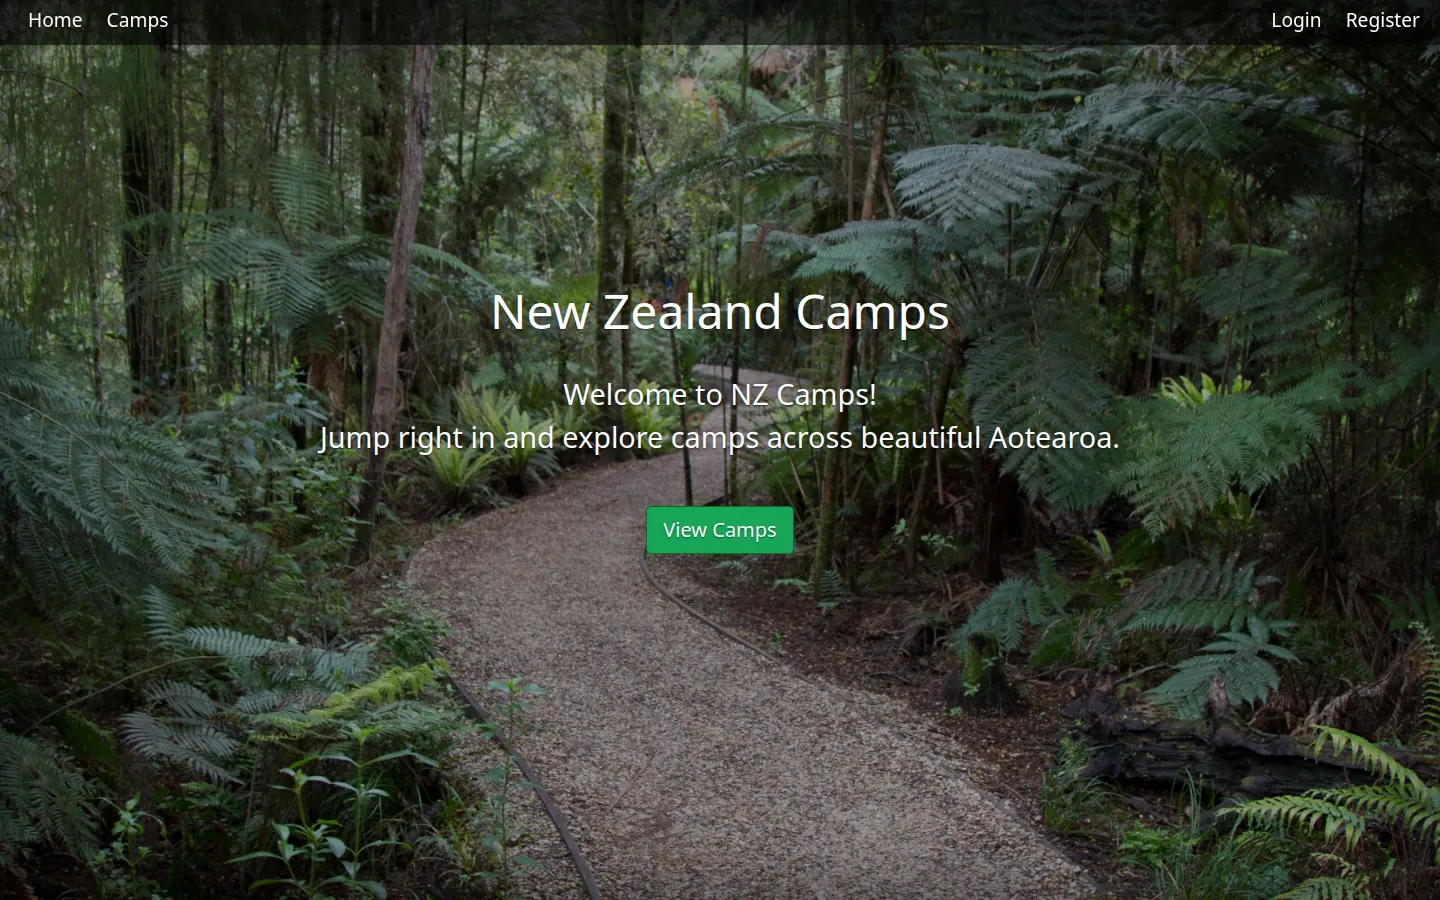
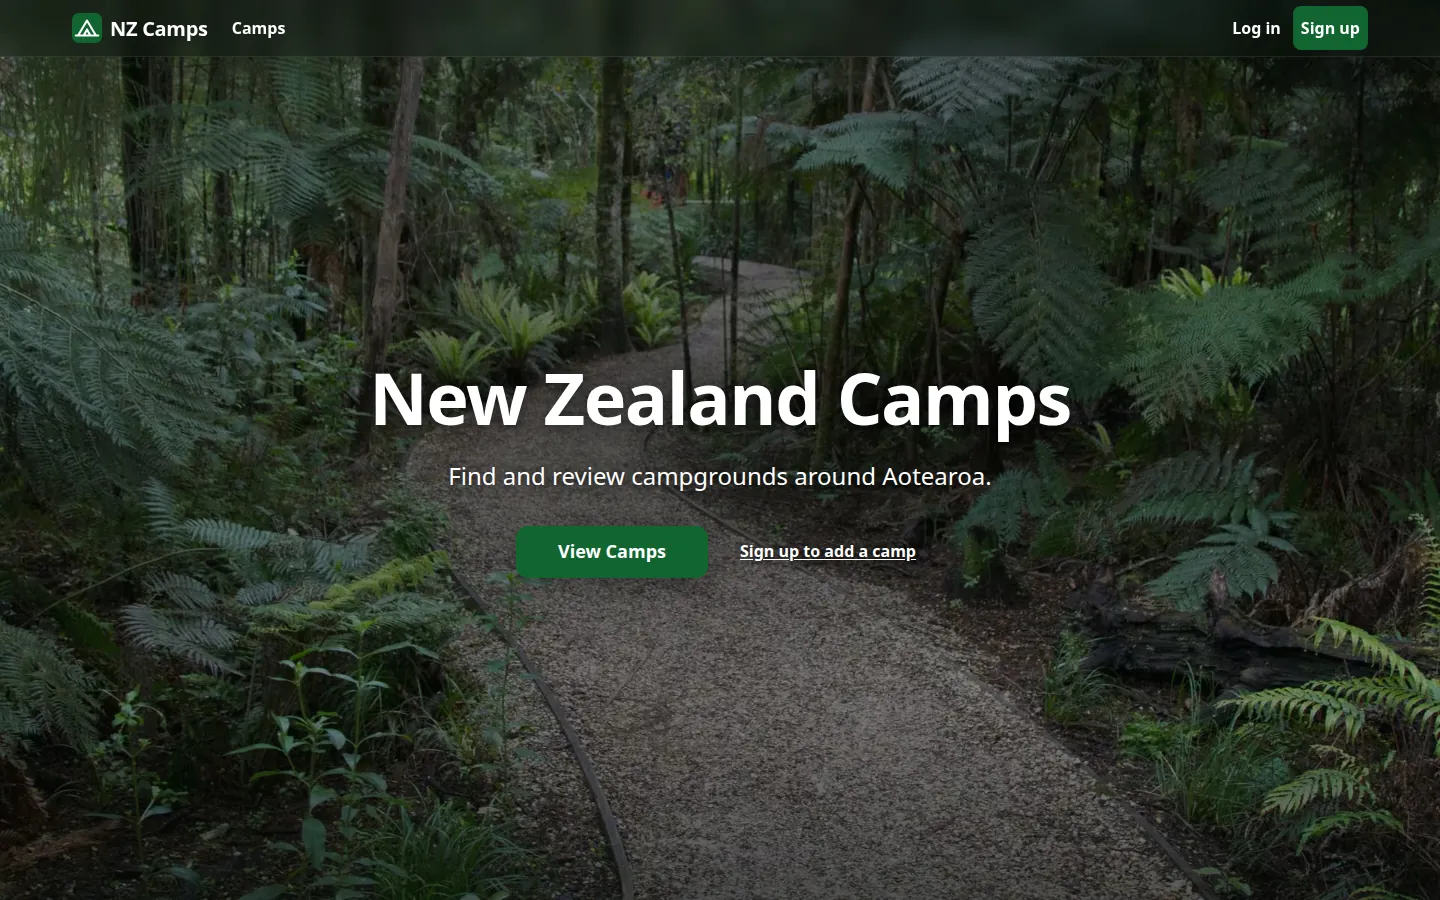
README, image notes and credits for the design stage
The README describes the new map layout, the responsive pages and AVIF
photos, the images script and the /credits page, no longer says Bootstrap
runs the browser checks, and shows the new home page. public/images
explains the generated variants and the drawn icons, and CREDITS.md
notes that the social card is made from the home photo.

D1, D5

diff --git a/README.md b/README.md
@@ -18,11 +18,12 @@ I started it in July 2021 as a learning project, originally using Mapbox for map
 - **Camps:** create, edit and delete campgrounds (title, price per night, location, description, photos). Only the camp's creator can edit or delete it.
 - **Photo uploads:** up to three JPG, PNG or WebP photos of up to 1.4 MB each per form, checked by their content, not the declared type. With Cloudinary credentials set, uploads go to Cloudinary, and only after the rest of the form has passed its checks. Without them, images are stored in the camp document as data URIs, so uploads still work on serverless hosting with no writable disk. The edit form can add more photos or remove existing ones.
 - **Geocoding:** the location text is turned into coordinates, with ", New Zealand" added to the search. Uses OpenCage when a token is set, otherwise the keyless OpenStreetMap Nominatim API; both are restricted to New Zealand results and give up after 5 seconds.
-- **Maps:** the camps page shows every camp on a Leaflet map with marker clustering; each camp page has its own map with a marker.
+- **Maps:** the camps page shows every matching camp on a Leaflet map with marker clustering, fitted to the markers; on desktop the map sits beside the list, on phones a List | Map toggle swaps them. Each camp page has its own map with a marker.
 - **Reviews:** 1 to 5 star ratings with a written review. Reviewers can delete their own reviews, and deleting a camp removes its reviews.
-- **Validation:** Joi schemas (and matching Mongoose limits) check camp, review and sign-up input on the server; a form that fails comes back with what was typed and a list of problems. Bootstrap validation runs in the browser, and `express-mongo-sanitize` strips MongoDB operators from request data.
+- **Validation:** Joi schemas (and matching Mongoose limits) check camp, review and sign-up input on the server; a form that fails comes back with what was typed and a list of problems. The browser runs the same checks first with the same messages, and `express-mongo-sanitize` strips MongoDB operators from request data.
 - **Security:** a strict content security policy (no inline scripts or styles, front-end libraries served from this site), a cross-site form check, `HttpOnly`/`SameSite`/`Secure` session cookies and POST-only logout. Page data for the maps is written as escaped JSON and map popups are built from text, never HTML.
 - **Sample listings:** eight invented camps at real places across both islands, labelled "Sample listing" wherever they appear; every page footer explains the label. Their photos are from Unsplash, each of the area it is listed in, with alt text and a credit line ([public/images/CREDITS.md](public/images/CREDITS.md)). There are no sample reviews.
+- **Pages and photos:** responsive from 320 px wide, with one design system on Bootstrap 5.3 (`public/stylesheets/tokens.css`). Photos are served as AVIF (with JPEG fallbacks) at the width each slot needs, made by `npm run images`; the home page loads 173 KB of images on a phone instead of a 4.8 MB photo. Every page has its own title, description and social card image, a skip link, a visible focus ring on every control, buttons and controls at least 44 px, and no motion when reduced motion is set.
 - **Demo mode:** if `DB_URL` is not set, or the database cannot be reached within 5 seconds, the camps list (with search, sort and pages) and the eight sample camp pages render from `seeds/demoData.js`, every page shows a banner saying so, and form submissions get a page explaining that nothing can be saved. After a failed connection the app tries again on a later request, at most once every 30 seconds, so one cold-start blip does not leave an instance on sample content.
 
 ## Tech stack
@@ -86,6 +87,7 @@ npm run lint          # ESLint
 npm run format:check  # Prettier
 npm run check:bundle  # trace the Vercel function and run the tests against that copy
 npm run vendor        # re-copy the pinned Leaflet and Bootstrap files into public/vendor
+npm run images        # remake the AVIF and JPEG photo variants (needs ImageMagick with AVIF)
 ```
 
 The tests download nothing at install time: `mongodb-memory-server` is pinned to MongoDB 8.2.6 in `package.json` and fetches the binary on first use (cached in `~/.cache/mongodb-binaries`).
@@ -109,11 +111,11 @@ utils/            geocoding, sessions, security headers, view helpers, errors
 seeds/            sample camps and the database seeder
 views/            EJS templates
 public/           stylesheets, images, browser scripts and vendored libraries
-scripts/          bundle check and vendoring scripts
+scripts/          bundle check, vendoring and image scripts
 test/             integration tests and their helpers
 ```
 
-All photos are from Unsplash; [public/images/CREDITS.md](public/images/CREDITS.md) lists each photographer, its Unsplash page and the location that page gives.
+All photos are from Unsplash; [public/images/CREDITS.md](public/images/CREDITS.md) and the site's own /credits page list each photographer, its Unsplash page and the location that page gives.
 
 ## Author
 

diff --git a/public/images/README.md b/public/images/README.md
@@ -6,3 +6,9 @@ Photo credits for every photo on the site, with the location each Unsplash page 
 |---|---|
 | `auth-ferns-480.jpg`, `auth-ferns-960.jpg` | Cropped and resized from `public/stylesheets/harry-knight-mqpY5vyNrKE-unsplash.jpg` (photo by Harry Knight on Unsplash, id `mqpY5vyNrKE`). Used on the log in and sign up cards. |
 | `samples/*.jpg` | Sample listing photos from Unsplash, 1600 px wide. See CREDITS.md. |
+| `<name>-<width>.avif`, `<name>-<width>.jpg` | Responsive variants made by `npm run images` (`scripts/images.js`, ImageMagick with AVIF): every sample photo at 480, 800, 1200 and 1600 or 1920 px as AVIF, with JPEG fallbacks at 800 and 1200 px. `utils/images.json` lists them for the templates. The originals keep their addresses. |
+| `home-hero-*`, `home-hero-wide-*` | The home page photo (Robert Koorenny), as a portrait crop for phones and a 16:10 crop for wider screens. |
+| `backdrop-tall-720.*` | A tall crop of the page background (Mitchell Luo) for phones. |
+| `auth-ferns-*.avif` | AVIF copies of the log in card photo. |
+| `og-nzcamps.jpg` | The 1200 x 630 social card: a crop of the home page photo with the site title. |
+| `icon.svg`, `apple-touch-icon.png`, `pin.svg`, `star-*.svg`, `no-photo.svg` | Drawn for the site: the tent mark, the map pin, rating stars and the no-photo placeholder. |

diff --git a/public/images/CREDITS.md b/public/images/CREDITS.md
@@ -24,5 +24,7 @@ The files in `public/images/samples/` were downloaded at 1600 px wide and recomp
 
 | File | Photographer | Unsplash page | Location on the page | Used for |
 |---|---|---|---|---|
-| `/stylesheets/robert-koorenny-Py2ULdPgHac-unsplash.jpg` | Robert Koorenny | https://unsplash.com/photos/Py2ULdPgHac | None given | Home page background |
+| `/stylesheets/robert-koorenny-Py2ULdPgHac-unsplash.jpg` | Robert Koorenny | https://unsplash.com/photos/Py2ULdPgHac | None given | Home page photo, and the social card (`og-nzcamps.jpg`) |
 | `/stylesheets/harry-knight-mqpY5vyNrKE-unsplash.jpg` | Harry Knight | https://unsplash.com/photos/mqpY5vyNrKE | New Zealand | Source of `auth-ferns-480.jpg` and `auth-ferns-960.jpg` (log in and sign up cards) |
+
+The resized AVIF and JPEG copies in this folder (made by `npm run images`) are versions of the photos above and carry the same credits. The site lists the same credits at /credits.
